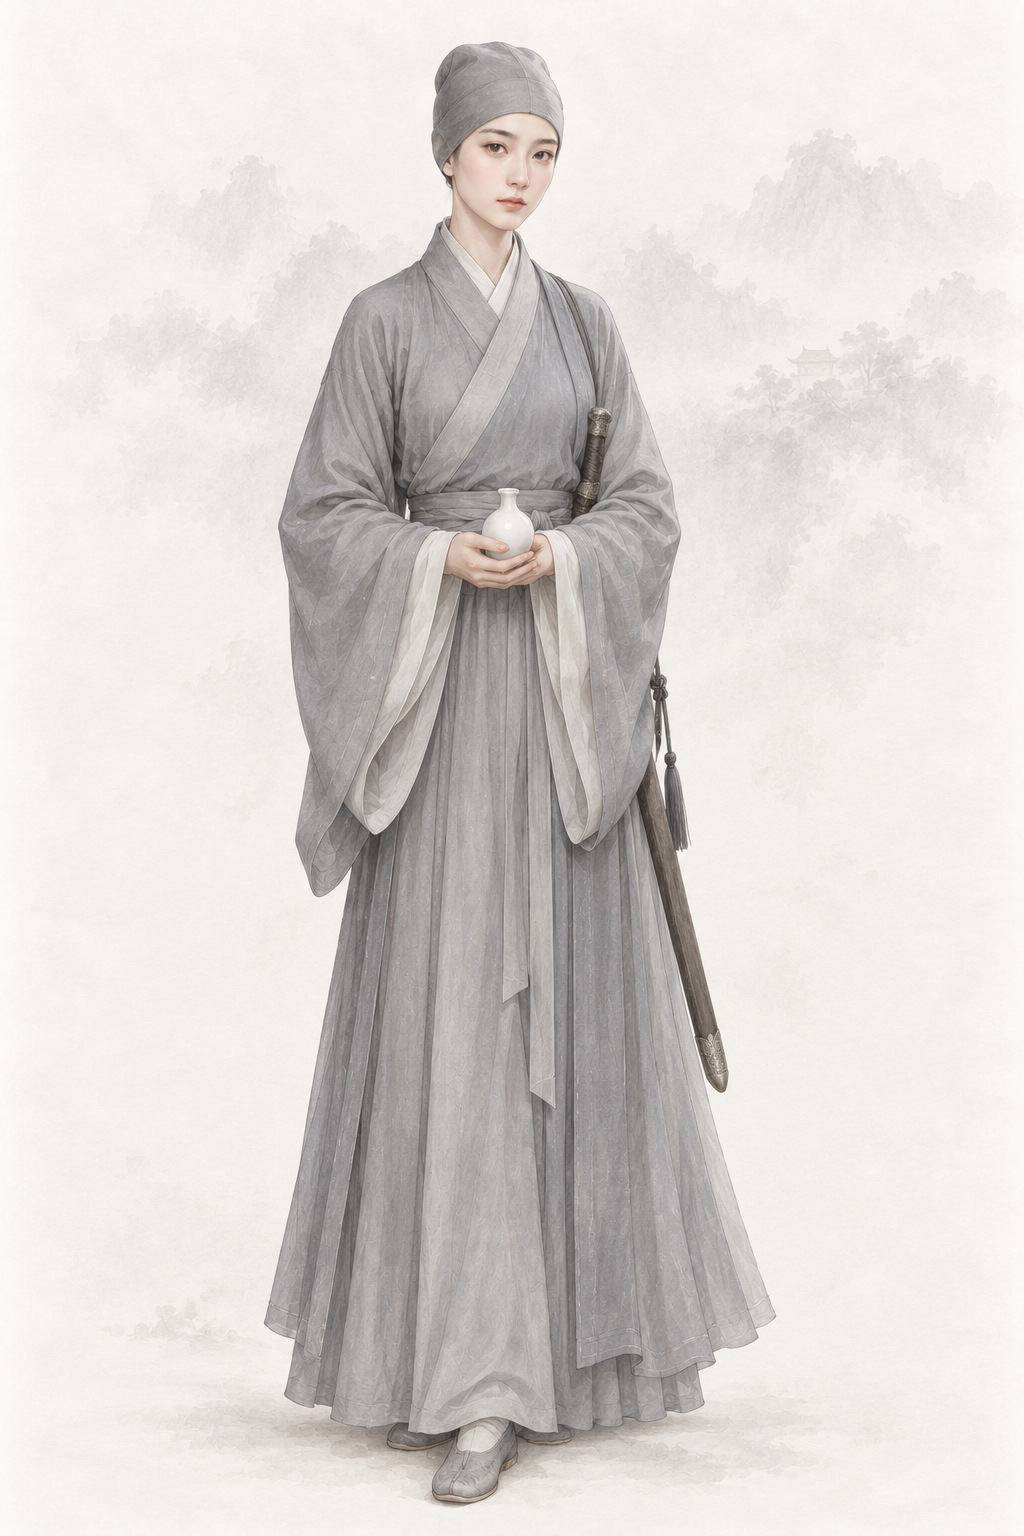
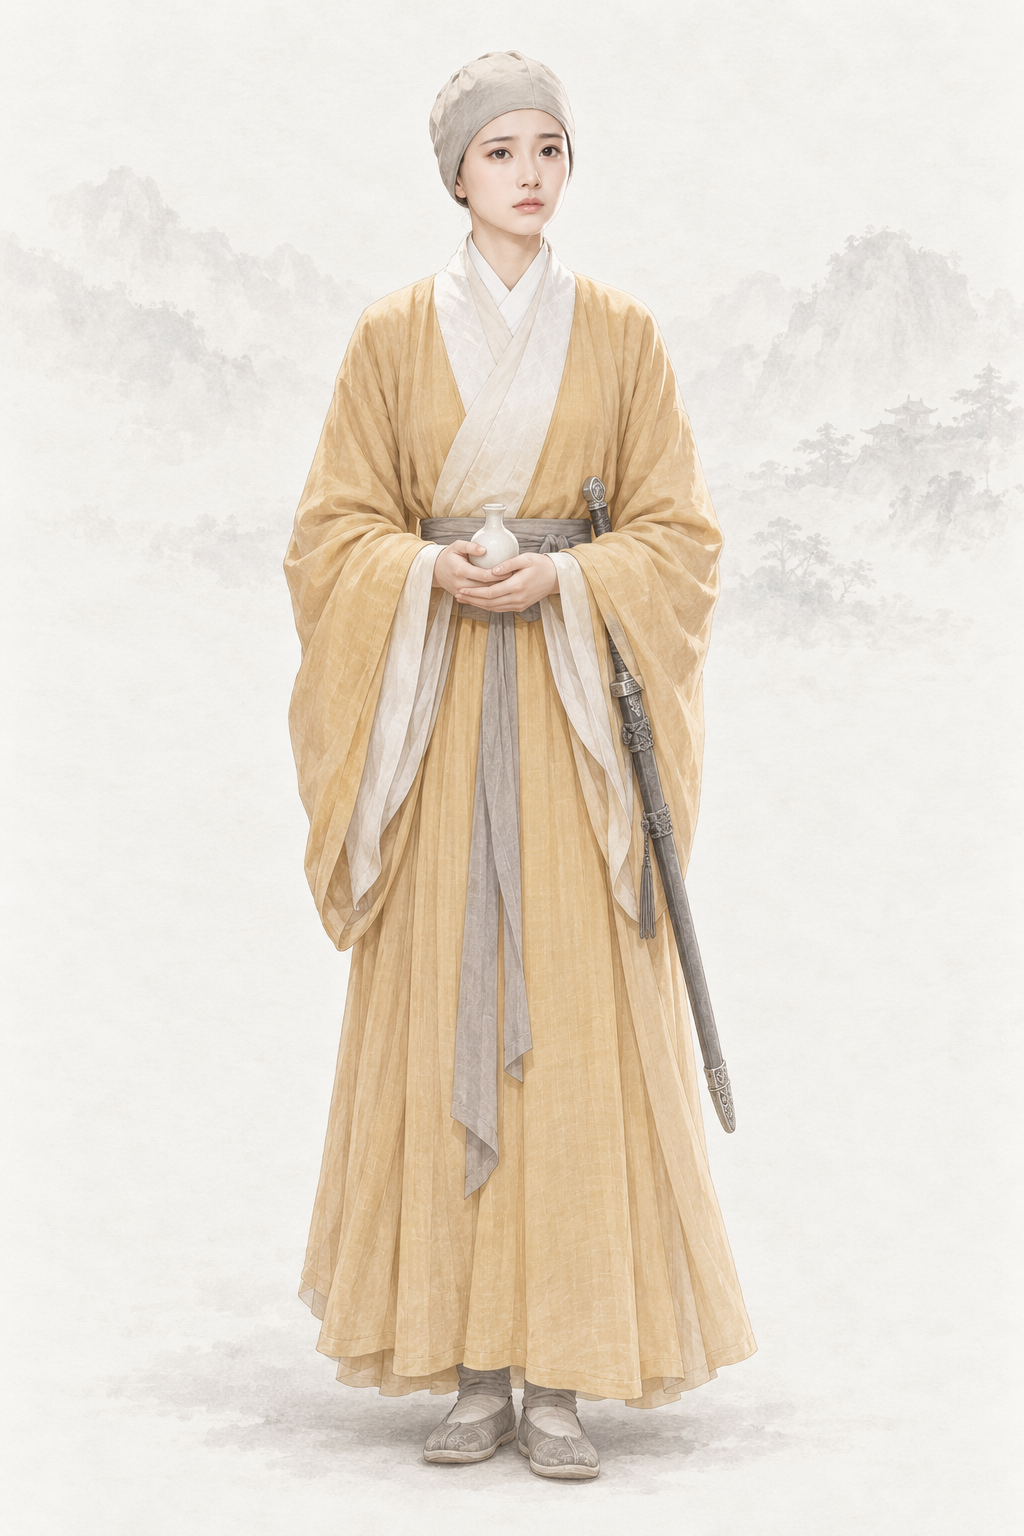
assets(character): por_npc_yilin__ch05_youth_base 仪琳（codex · AR-32 1996 TVB《笑傲江湖》 剧照 + 基线）
上传顺序：第 1–2 张为 1996 TVB《笑傲江湖》仪琳剧照（yilin_1996_hemeitian_qq.jpg；sohu.jpg 裁去水印），最后两张为同性别基线；提示词写回、frontmatter 加 classic_ref。

Changed region(s): [[0.25, 0.0, 0.7812, 1.0], [0.7812, 0.25, 0.8438, 0.2812], [0.9062, 0.3125, 0.9375, 0.3438]]

diff --git a/assets/default/prompts/characters/ch05-xiaoao/npc_yilin.md b/assets/default/prompts/characters/ch05-xiaoao/npc_yilin.md
@@ -13,15 +13,51 @@ references:
   use: 唯一输入图仅作用户背景参考，已实际 view：只取暖浅灰不透明纸底、极淡青灰远山水墨与留白；完全忽略女性脸、年龄、体型、头发首饰、纱裙、飘带、倾头和手势，不取花枝亭台。它不是本角色本人图，不提供面部身份。
 status: redo
 redo_reason: "现图是童颜大眼、头大身小的少女体态，旧稿还写明“按未成年处理”，违反禁止幼态；改为约二十岁的成年女尼。"
-reference_upload:
-- assets/default/baseline/character/female/ref_npc_wangyuyan__ch01_base01.png
 realism_revision: user_identity_pose_20261001
 codex_prompt_rev: 2026-10-02
+reference_upload:
+- .agents/coord/imagegen-reference/identity-20261002/xiaoao/yilin_1996_hemeitian_qq.jpg
+- .agents/coord/imagegen-reference/identity-20261002/xiaoao/yilin_1996_hemeitian_sohu.jpg
+- assets/default/baseline/character/female/ref_npc_wangyuyan__ch01_base01.png
+- assets/default/baseline/character/female/ref_npc_xiaolongnv__ch03_base01.png
+classic_ref:
+  version: 1996 TVB《笑傲江湖》
+  stills:
+  - .agents/coord/imagegen-reference/identity-20261002/xiaoao/yilin_1996_hemeitian_qq.jpg
+  - .agents/coord/imagegen-reference/identity-20261002/xiaoao/yilin_1996_hemeitian_sohu.jpg
+  crop:
+    yilin_1996_hemeitian_sohu.jpg:
+    - 60
+    - 0
+    - 600
+    - 340
 ---
 
 # 仪琳 · 人物写实修正
 
 ## Gemini 提示词
+
+> 2026-10-02 AR-32 重出（8 号出图员，codex exec · image_gen）：主要角色参考经典造型加项目基线生成。上传顺序：第 1–2 张为 1996 TVB《笑傲江湖》仪琳剧照（yilin_1996_hemeitian_qq.jpg；sohu.jpg 裁去水印），最后两张为同性别画风基线（缩小版 JPEG）。参考图只借造型、气质与面部特征，画面按项目画风重绘、不复制照片或像素图。上一版保留在下一节作历史。
+
+```text
+生成一张 2:3 竖幅全身人物立绘：单人、单一视角、完整全身——头顶、双手、双脚和手中器物的两端都在画面内，四周留出自然空白；人物站姿自然，身体基本朝向正面，头部端正（不歪头、不仰不俯），镜头平视。
+【参考图】第 1–2 张参考图是该角色经典影视造型的剧照：借鉴其发型、服饰、配色、标志道具、气质和面部特征，让人一眼认出是这个角色；但必须重新绘制成项目画风，不要照片质感，不要照搬剧照的构图、光影、背景和姿势，也不要做成照片修图。最后两张是本项目画风基线：画风、用色、光线、质感和暖浅灰纸底加淡水墨背景以它们为准。
+【剧照借鉴要点】取剧照里的灰白布僧帽（把头发全包住）、杏黄色僧衣配白色交领、清秀温柔的五官和带点怯生生的神情；但要画成成年女子。姿势和构图按下文的全身立绘来画，不照搬剧照。
+【画风】写实手绘古风人物插画，与本项目写实武侠角色立绘同一画风，像功力深厚的画师用细腻笔触画出的真实人物。手绘插画质感，不是 CG 渲染：不要过度光滑的皮肤、完美对称的五官、塑料高光、过度锐利的发丝；保留自然的笔触和细微不完美。皮肤有真实质感——细小毛孔、细纹、晒痕和自然的左右不对称，不磨皮、不油亮；头发是一缕缕自然的发丝和少量碎发；布料看得出经纬纹理、厚薄和自然垂坠的褶皱，带穿用过的轻微旧化，但完整不破烂；整体设色低饱和、沉稳；柔和的自然光从左上方照来，明暗过渡自然，不打舞台光、轮廓光或美颜柔光。不是照片，不是三维渲染，不是动漫或游戏 CG，也不是油画（没有厚涂笔触和画布纹理）。
+【背景】不透明的暖浅灰色纸底，只在远处有极淡的水墨远山和薄雾，大面积留白；人物与背景明暗分明、轮廓边缘干净完整（后续要自动抠图），水墨和纸纹只在背景里，不侵入人物和衣服；脚下只有很淡的一点接触阴影。
+【人物】仪琳，《笑傲江湖》中恒山派的年轻尼姑，衡阳救难之后随同门行走的时期。
+【年龄与体态】约二十岁的成年女尼，身形纤细但为成人比例（约七头身），体态端庄温柔。
+【经典造型】九十年代经典港剧里的仪琳：灰白布僧帽、杏黄色宽袖僧衣，双手捧着白瓷药瓶，腰佩恒山派长剑；清丽脱俗、纯真温柔，带一点羞涩——是秀美动人的成年女尼。
+【面容】按剧照：清秀的鹅蛋脸、下巴圆润；眉毛细长柔顺；一双清澈温柔的眼睛（自然大小），眼神纯净、带点羞怯与关切；鼻梁秀挺；嘴唇小巧、唇色淡粉；肤色白净；不施脂粉。清丽脱俗，但是成年人的五官，不是孩子气的脸。
+【发式】剃度出家，头戴一顶灰白色布僧帽，把头发全包住，帽下不露头发。
+【服饰】杏黄色宽袖僧衣（交领右衽，左襟压右襟），白色内领，腰系灰布带；灰布袜与僧鞋；衣服宽松，不显身形。
+【道具】双手在腹前捧着一只小小的白瓷药瓶；腰侧佩一柄恒山派长剑（连鞘，素灰剑鞘）。
+【姿态与神情】端正站立，神情温婉虔诚。
+【不要】画面里不要任何文字、题款、印章、签名、水印、边框、分格或多视图；不要第二个人；不要幼态（童颜、娃娃脸、婴儿肥、儿童或少年身材、大头小身）；不要塑料感皮肤、磨皮美颜、网红脸（尖下巴大眼高鼻的模板脸）、过度对称、浓妆、偶像式打光、蜡像感；不要照片质感，不要像剧照照片、照片修图或拼贴，不要照搬剧照的背景、光影、构图和姿势；不要三维渲染或动漫大眼；不要歪头、斜镜头；不要多指、缺指（设定的伤残除外）、手与器物粘连或悬空；衣襟必须右衽（穿着者的左襟压在右襟上），不要左衽（设定为少数民族服制的除外），不要水平镜像；不要现代物品、发光特效、法阵或能量光。不要露出头发；不要童颜、娃娃脸、头大身小；不要浓妆、首饰；不要性感化；不要和岳灵珊同一张脸。
+【画风基线】随提示词上传的参考图里，最后两张是本项目的立绘画风基线：只参考它们的画风、用色、光线、质感和暖浅灰纸底加淡水墨的背景处理，整体画风必须与它们一致——精细写实的数字手绘插画，不是油画，不要厚涂笔触和画布纹理。基线图只取画风，不取长相：不要照搬基线图里人物的长相、年龄、发型、服饰和姿势。
+```
+
+## AR-31 文字版 Gemini 提示词（2026-10-02 凌晨；AR-32 重出之前，历史，不再用于出图）
 
 > 2026-10-02 Codex 人物线 2 号（AR-31）：在审核组稿上补一行「经典形象」（借鉴公认经典造型的发式、装束、配色、标志道具与气质，只写文字，不写演员名、不上传剧照），并补去 AI 化要求。本轮出图用下面第一个代码块；审核组原稿保留在其后的「审核组原稿」小节作历史。
 
